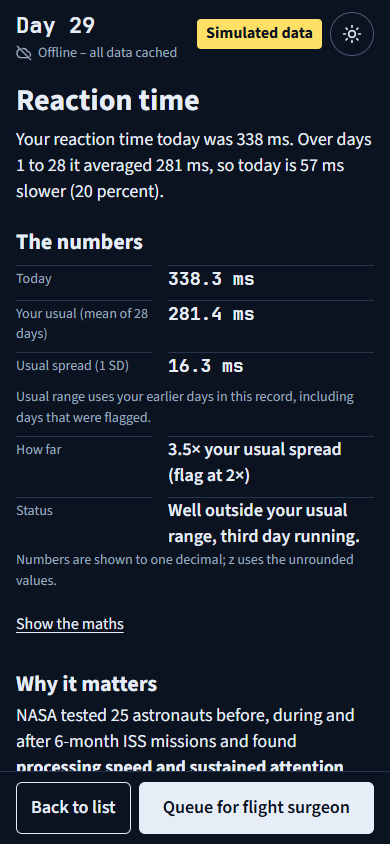
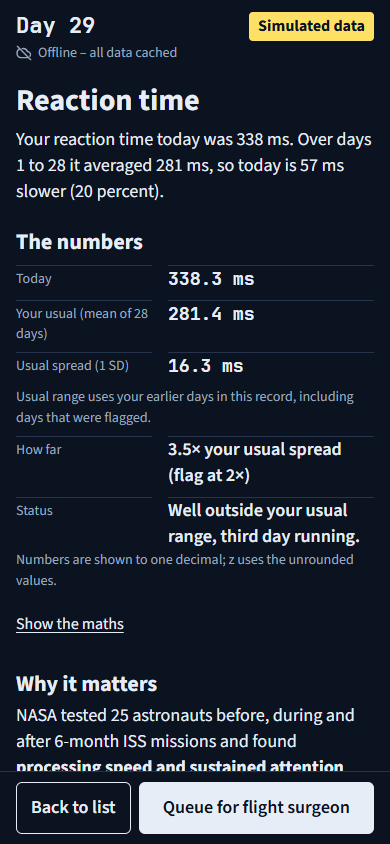
Dark only: theme switch and light palette removed; dark screenshots retaken, light deleted

Changed region(s): [[0.4923, 0.0, 0.9538, 0.0616]]

diff --git a/web/index.html b/web/index.html
@@ -8,9 +8,9 @@
 <link rel="icon" href="data:,">
 <link rel="preload" href="fonts/source-sans-3-latin-wght-normal.woff2?v=fe93b8f82d" as="font" type="font/woff2" crossorigin>
 <link rel="preload" href="fonts/jb-mono-regular.woff2?v=366a644383" as="font" type="font/woff2" crossorigin>
-<link rel="stylesheet" href="tokens.css?v=3c1d51d7bf">
+<link rel="stylesheet" href="tokens.css?v=482f5bfe40">
 <script src="errors.js?v=8cd9c76036"></script>
-<script src="theme.js?v=bb3d7a5525"></script>
+<script src="theme.js?v=01a88a6408"></script>
 <style>
 * { box-sizing: border-box; }
 html { -webkit-text-size-adjust: 100%; }
@@ -45,12 +45,6 @@ h1[tabindex]:focus { outline: none; }
 .top-right { display: flex; align-items: center; gap: 8px; }
 /* Big enough to read in a screen recording. */
 .sim { padding: 2px 8px; border: 1px solid var(--sim-border); border-radius: 4px; background: var(--sim); color: var(--sim-ink); font-size: 16px; font-weight: 700; }
-.theme-btn {
-  display: flex; align-items: center; justify-content: center; width: 44px; height: 44px; padding: 0;
-  border: 1.5px solid var(--strong); border-radius: 50%; background: none; color: var(--ink); cursor: pointer;
-}
-.theme-btn svg { width: 20px; height: 20px; }
-:root[data-theme="dark"] .i-moon, :root:not([data-theme="dark"]) .i-sun { display: none; } /* sun = go light */
 main { max-width: 480px; margin: 0 auto; padding: 0 16px 56px; }
 h1 { margin: 12px 0 8px; font-size: 30px; line-height: 1.2; font-weight: 700; }
 h2 { margin: 24px 0 4px; font-size: 22px; line-height: 1.25; font-weight: 700; }
@@ -309,10 +303,6 @@ fieldset { border: 0; padding: 0; margin: 28px 0 0; min-width: 0; }
   <span class="top-right">
     <span class="sim">Simulated data</span>
     <span id="b1-chip" class="chip" hidden></span>
-    <button id="theme-btn" class="theme-btn" type="button" aria-label="Switch theme">
-      <svg class="i-sun" viewBox="0 0 24 24" fill="none" stroke="currentColor" stroke-width="2" stroke-linecap="round" aria-hidden="true"><circle cx="12" cy="12" r="4"/><path d="M12 2v2M12 20v2M4.9 4.9l1.4 1.4M17.7 17.7l1.4 1.4M2 12h2M20 12h2M4.9 19.1l1.4-1.4M17.7 6.3l1.4-1.4"/></svg>
-      <svg class="i-moon" viewBox="0 0 24 24" fill="none" stroke="currentColor" stroke-width="2" stroke-linejoin="round" aria-hidden="true"><path d="M21 12.8A9 9 0 1 1 11.2 3a7 7 0 0 0 9.8 9.8z"/></svg>
-    </button>
   </span>
 </header>
 <main>
@@ -670,6 +660,6 @@ fieldset { border: 0; padding: 0; margin: 28px 0 0; min-width: 0; }
 <script src="spe.js?v=8dc481d0f5"></script>
 <script src="reaction.js?v=0c373ca889"></script>
 <script src="store.js?v=cb99d76b39"></script>
-<script src="app.js?v=33904779bc"></script>
+<script src="app.js?v=b91d9713e2"></script>
 </body>
 </html>

diff --git a/web/theme.js b/web/theme.js
@@ -1,19 +1,11 @@
 "use strict";
-// Light/Dark theme. A choice saved on this device wins; with none, the page is dark during the crew's
-// planned sleep window and light outside it. Loaded in <head> so the first paint is already in the right
-// theme. Storage can be blocked (private mode, settings): then the choice lasts until the page closes.
+// The page is dark only (Hrishin, 11 Nov 2026): web/tokens.css has one palette, so nothing here picks a theme,
+// reads the device clock for it or reads a saved choice. What is left is the simulated crew schedule for the
+// daily check prompt on the first screen.
 (function (root) {
-  // Simulated crew schedule, not a NASA figure: planned sleep window 22:00 to 06:00, device local time.
-  const SLEEP_START_HOUR = 22, SLEEP_END_HOUR = 6;
-  const KEY = "baseline-theme";
+  // Simulated crew schedule, not a NASA figure: planned sleep window ends 06:00, device local time.
+  const SLEEP_END_HOUR = 6;
 
-  const byClock = (date) => {
-    const h = date.getHours();
-    return h >= SLEEP_START_HOUR || h < SLEEP_END_HOUR ? "dark" : "light";
-  };
-  function saved() {
-    try { const t = localStorage.getItem(KEY); return t === "light" || t === "dark" ? t : null; } catch (e) { return null; }
-  }
   // The daily check prompt on the first screen, from the same schedule. saved: the checks on this device (Store.load()),
   // empty when storage is blocked. Local dates, because saved_at is in UTC. Worked out when the screen is drawn: no timer.
   function dailyLine(now, saved) {
@@ -21,16 +13,8 @@
     if (now.getHours() < SLEEP_END_HOUR) return `Next daily check: ${String(SLEEP_END_HOUR).padStart(2, "0")}:00 (after the planned sleep window).`;
     return "Today's daily check is due now.";
   }
-  const current = () => document.documentElement.getAttribute("data-theme");
-  function set(theme) {
-    document.documentElement.setAttribute("data-theme", theme);
-    try { localStorage.setItem(KEY, theme); } catch (e) { /* storage blocked: keep it for this visit only */ }
-  }
 
-  const api = { SLEEP_START_HOUR, SLEEP_END_HOUR, byClock, dailyLine, current, set };
+  const api = { SLEEP_END_HOUR, dailyLine };
   if (typeof module === "object" && module.exports) module.exports = api;
-  else {
-    root.Theme = api;
-    document.documentElement.setAttribute("data-theme", saved() || byClock(new Date()));
-  }
+  else root.Theme = api;
 })(this);

diff --git a/web/tokens.css b/web/tokens.css
@@ -1,6 +1,6 @@
-/* Design tokens: the two palettes and two fonts from the final canvas (docs/DESIGN_BRIEF.md "Global rules").
-   web/theme.js sets data-theme on <html>; plain :root is the light palette in case that script never runs.
-   Every variable index.html or app.js uses must be defined in both themes (tests/test_web.py checks). */
+/* Design tokens: the dark palette and two fonts from the final canvas (docs/DESIGN_BRIEF.md "Global rules").
+   Dark only (Hrishin, 11 Nov 2026): one palette on plain :root, no light palette, nothing switches it.
+   Every variable index.html or app.js uses must be defined here (tests/test_web.py checks). */
 @font-face {
   font-family: "Source Sans 3";
   src: url("fonts/source-sans-3-latin-wght-normal.woff2?v=fe93b8f82d") format("woff2");
@@ -20,34 +20,8 @@
   font-display: swap;
 }
 
-/* Light – day mode (the original app palette). */
-:root, :root[data-theme="light"] {
-  color-scheme: light;
-  --sans: "Source Sans 3", system-ui, sans-serif;
-  --mono: "JetBrains Mono", ui-monospace, monospace;
-  --scrub: #E6ECE8;        /* ground */
-  --ink: #16221E;          /* text, primary button */
-  --quiet: #52625B;
-  --rule: #AEBDB5;
-  --band: #C5D3CA;         /* usual-range band */
-  --flag: #D4470C;
-  --sim: #FFF1A8;          /* simulated-data badge */
-  --sim-ink: #16221E;
-  --sim-border: #16221E;
-  --error: #FCE1DE;        /* alert card */
-  --real: #FFFFFF;         /* real-data box */
-  --real-border: #52625B;
-  --real-head: #16221E;
-  --card: transparent;
-  --card-border: #AEBDB5;
-  --strong: #52625B;       /* control borders */
-  --glow: none;
-  --rt-go: transparent;    /* reaction field while the circle shows */
-  --rt-dot: #16221E;
-}
-
 /* Dark – mission console. */
-:root[data-theme="dark"] {
+:root {
   color-scheme: dark;
   --sans: "Source Sans 3", system-ui, sans-serif;
   --mono: "JetBrains Mono", ui-monospace, monospace;

diff --git a/web/app.js b/web/app.js
@@ -426,19 +426,6 @@ function trendChart(canvas, signal, full, { bottom, tick, learning, words = () =
   });
 }
 
-// Light/Dark switch in the header (web/theme.js picks the first theme). Charts read the colours when drawn.
-function themeLabel() {
-  $("theme-btn").setAttribute("aria-label", Theme.current() === "dark" ? "Switch to light theme" : "Switch to dark theme");
-}
-themeLabel();
-$("theme-btn").addEventListener("click", () => {
-  Theme.set(Theme.current() === "dark" ? "light" : "dark");
-  themeLabel();
-  if (Object.keys(state.charts).length) CHANNELS.forEach(drawChannel);
-  if ($("skylab").open) drawSkylab();
-  if (!$("maths").hidden) drawMaths(state.current);
-});
-
 // 7 days · 30 days switch (design P7b). Not saved on the device; "Start the demo again" sets it back to 30 days.
 function setRange(days) {
   state.range = days;

diff --git a/tests/test_web.py b/tests/test_web.py
@@ -91,29 +91,21 @@ def test_scripts_styles_and_fonts_carry_a_version_that_matches_their_content():
 TOKENS = Path("web/tokens.css")
 
 
-def theme_block(name: str) -> str:
+def palette() -> str:
+    """The one palette: dark only (Hrishin, 11 Nov 2026)."""
     css = TOKENS.read_text(encoding="utf-8")
-    return re.search(r':root\[data-theme="' + name + r'"\] \{(.*?)\}', css, re.S).group(1)
+    blocks = re.findall(r"^(:root[^{]*)\{(.*?)\}", css, re.S | re.M)
+    assert [sel.strip() for sel, _ in blocks] == [":root"], "one palette on plain :root, no data-theme blocks"
+    return blocks[0][1]
 
 
-def test_both_themes_define_every_variable_the_page_uses():
+def test_dark_palette_defines_every_variable_the_page_uses():
     used = set(re.findall(r"var\((--[a-z-]+)\)", Path("web/index.html").read_text(encoding="utf-8")))
     used |= set(re.findall(r'"(--[a-z-]+)"', Path("web/app.js").read_text(encoding="utf-8")))
     assert {"--ink", "--flag", "--mono", "--sans"} <= used
-    for name in ("light", "dark"):
-        defined = set(re.findall(r"(--[a-z-]+):", theme_block(name)))
-        assert used <= defined, f"{name} theme is missing {sorted(used - defined)}"
-    assert "#0B1220" in theme_block("dark") and "#E6ECE8" in theme_block("light")
-
-
-def test_theme_switch_is_in_the_header_and_big_enough_to_tap():
-    html = Path("web/index.html").read_text(encoding="utf-8")
-    header = html[html.index('<header class="top">'):html.index("</header>")]
-    assert '<button id="theme-btn" class="theme-btn" type="button"' in header
-    assert re.search(r"\.theme-btn \{[^}]*width: 44px; height: 44px;", html)
-    app = Path("web/app.js").read_text(encoding="utf-8")
-    for label in ("Switch to light theme", "Switch to dark theme"):
-        assert label in app and not any(b in label.lower() for b in BLOCKED)
+    defined = set(re.findall(r"(--[a-z-]+):", palette()))
+    assert used <= defined, f"dark palette is missing {sorted(used - defined)}"
+    assert "#0B1220" in palette() and "color-scheme: dark;" in palette()
 
 
 def test_offline_line_is_in_the_header_on_every_screen():
@@ -124,20 +116,38 @@ def test_offline_line_is_in_the_header_on_every_screen():
     assert f"</svg>{line}</span>" in header and not any(b in line.lower() for b in BLOCKED)
 
 
-THEME_JS = """
-const T = require('./web/theme.js');
-const at = (h, m) => T.byClock(new Date(2026, 9, 29, h, m));
-console.log(JSON.stringify([at(21, 59), at(22, 0), at(3, 0), at(5, 59), at(6, 0), at(12, 0)]));
+THEME_JS = r"""
+// The page's theme.js as a browser runs it (no module), with a saved "light" choice from an old visit in storage.
+const fs = require('fs');
+const calls = [];
+const storage = { getItem(k) { calls.push(['get', k]); return k === 'baseline-theme' ? 'light' : null; }, setItem(k, v) { calls.push(['set', k, v]); } };
+const document = { documentElement: { setAttribute(k, v) { calls.push(['attr', k, v]); }, getAttribute() { return null; } } };
+const root = {};
+new Function('module', 'localStorage', 'document', 'window', fs.readFileSync('./web/theme.js', 'utf8').replace(/\}\)\(this\);\s*$/, '})(window);'))(undefined, storage, document, root);
+console.log(JSON.stringify({ calls, api: Object.keys(root.Theme).sort() }));
 """
 
 
 @pytest.mark.skipif(NODE is None, reason="node is not installed")
-def test_default_theme_is_dark_in_the_simulated_sleep_window():
+def test_page_is_dark_with_a_saved_light_choice_and_has_no_switch():
+    """Dark only (Hrishin, 11 Nov 2026): a saved "light" value from an old visit is never read and never applied;
+    no clock default; no switch in the header or in app.js; the only palette is dark."""
     out = json.loads(subprocess.run([NODE, "-e", THEME_JS], capture_output=True, text=True, check=True).stdout)
-    assert out == ["light", "dark", "dark", "dark", "light", "light"]
+    assert out["calls"] == [], "theme.js reads no saved choice and sets no theme"
+    assert out["api"] == ["SLEEP_END_HOUR", "dailyLine"]
     theme = Path("web/theme.js").read_text(encoding="utf-8")
     assert "Simulated crew schedule, not a NASA figure" in theme
-    assert theme.count("try {") == 2, "localStorage read and write are both wrapped"
+    assert "localStorage" not in theme and "getHours() >=" not in theme
+    html = Path("web/index.html").read_text(encoding="utf-8")
+    header = html[html.index('<header class="top">'):html.index("</header>")]
+    assert "<button" not in header, "no theme switch in the header"
+    app = Path("web/app.js").read_text(encoding="utf-8")
+    for gone in ("theme-btn", "Switch to light theme", "Switch to dark theme", "Theme.set", "Theme.current"):
+        assert gone not in html and gone not in app, gone
+    css = TOKENS.read_text(encoding="utf-8")
+    assert "data-theme" not in css and "color-scheme: light" not in css and "#E6ECE8" not in css
+    assert "data-theme" not in html and "prefers-color-scheme" not in html + css
+    palette()
 
 
 DAILY_JS = """

diff --git a/README.md b/README.md
@@ -5,11 +5,11 @@
 **Baseline is a phone app that tells an astronaut whether today is normal *for them*.** It compares each day's readings with that person's own 30-day range. When something drifts, it shows the numbers, the NASA study behind the change, and one step to consider. It never diagnoses.
 
 <p align="center">
-  <img src="web/screenshots/2-console-390.png" width="260" alt="Console titled Health status: the last 29 days of heart rate, heart rate variability and blood oxygen, the first three of seven charts. The grey band is the usual range. Heart rate variability is flagged in orange on days 27 to 29.">
+  <img src="web/screenshots/2-console-390-dark.png" width="260" alt="Console titled Health status: the last 29 days of heart rate, heart rate variability and blood oxygen, the first three of seven charts. The grey band is the usual range. Heart rate variability is flagged in orange on days 27 to 29.">
   &nbsp;
-  <img src="web/screenshots/3-flags-390.png" width="260" alt="What changed today: reaction time and heart rate variability are outside the usual range, each with a three-day trend card under its flag.">
+  <img src="web/screenshots/3-flags-390-dark.png" width="260" alt="What changed today: reaction time and heart rate variability are outside the usual range, each with a three-day trend card under its flag.">
   &nbsp;
-  <img src="web/screenshots/4-evidence-390.png" width="260" alt="Evidence card for reaction time: the change in plain words, the numbers with a line on how the usual range is computed, the start of why it matters, and the Back to list and Queue for flight surgeon buttons.">
+  <img src="web/screenshots/4-evidence-390-dark.png" width="260" alt="Evidence card for reaction time: the change in plain words, the numbers with a line on how the usual range is computed, the start of why it matters, and the Back to list and Queue for flight surgeon buttons.">
 </p>
 
 > **Every vital sign on the console is simulated.** The demo page says "Simulated data" on every screen. The one real crew record is the Skylab 4 sleep estimates from a NASA report (`cache/skylab4`): crew log estimates, by role only, labelled as real on their own panel. The real feeds are NASA MSL RAD (Mars surface radiation, CDAWeb dataset MSL_RAD_OBS-L2) and NOAA GOES solar protons, shown together in their own box, "Real data: NASA MSL RAD and NOAA GOES".
@@ -69,7 +69,7 @@ pytest -q
 python -m baseline.serve
 ```
 
-`pytest -q` should print **203 passed** (with Node). The last line opens the demo in your browser at http://localhost:8000 (or 8001–8010 if busy). Ctrl+C stops it.
+`pytest -q` should print **202 passed** (with Node). The last line opens the demo in your browser at http://localhost:8000 (or 8001–8010 if busy). Ctrl+C stops it.
 
 **On a phone:** `python -m baseline.serve --lan`, then open the second address it prints on a phone on the same wifi. Windows may ask to let Python through the firewall; allow it for private networks.
 
@@ -83,7 +83,7 @@ python -m baseline.serve
 - The page loads files only from `web/` (fonts, Chart.js, rules, fixture, radiation summary). A Content-Security-Policy blocks every other host.
 - The server sends `Cache-Control: no-store`, so a reload always gets the latest files.
 - "Start the demo again" resets in memory without reloading, so a phone that has loaded the page once can run it again with no network.
-- The round button in the header switches between a light and a dark theme, and the device remembers the choice. With no saved choice the page is dark from 22:00 to 06:00 on the device clock and light otherwise. That window is a simulated crew schedule (`web/theme.js`), not a NASA figure. Screenshots ending in `-dark` show the dark theme.
+- The page has one theme, dark, on every screen; there is no theme switch. Screenshots end in `-dark`.
 - If `pip install` fails, check that `python --version` shows 3.11 or later.
 
 </details>
@@ -103,13 +103,13 @@ For a repeatable demo, use the **"Use recorded day-29 self-check"** button in st
 | 5 | **Queue for flight surgeon** | The summary, and "A reply can come up to 40 minutes later: up to 20 minutes each way at Mars distance." Display only. Nothing is sent. |
 | 6 | **Next day** | Day 30: each of yesterday's flags compared with today. "Start the demo again" returns to step 1. |
 
-**Flight surgeon view.** On a laptop, open `http://localhost:8000/#crew`, or use the "Flight surgeon view" link at the bottom of the day 29 console. Three crew on one screen, each checked against their own normal, with their flags, queued summaries and evidence cards. Static and simulated; nothing is sent. ([screenshot](web/screenshots/11-crew-1440.png))
+**Flight surgeon view.** On a laptop, open `http://localhost:8000/#crew`, or use the "Flight surgeon view" link at the bottom of the day 29 console. Three crew on one screen, each checked against their own normal, with their flags, queued summaries and evidence cards. Static and simulated; nothing is sent. ([screenshot](web/screenshots/11-crew-1440-dark.png))
 
 <p align="center">
-  <img src="web/screenshots/0-guide-390.png" width="200" alt="First-open guide card, with the simulated crew schedule line above it: today's daily check is due now">
-  <img src="web/screenshots/1-today-390.png" width="200" alt="Self-check screen">
-  <img src="web/screenshots/5-queue-390.png" width="200" alt="Needs flight surgeon attention: the summary in the queue">
-  <img src="web/screenshots/6-next-day-390.png" width="200" alt="Day 30 console: one reading is outside the usual range today; heart rate variability is back inside its usual range">
+  <img src="web/screenshots/0-guide-390-dark.png" width="200" alt="First-open guide card, with the simulated crew schedule line above it: today's daily check is due now">
+  <img src="web/screenshots/1-today-390-dark.png" width="200" alt="Self-check screen">
+  <img src="web/screenshots/5-queue-390-dark.png" width="200" alt="Needs flight surgeon attention: the summary in the queue">
+  <img src="web/screenshots/6-next-day-390-dark.png" width="200" alt="Day 30 console: one reading is outside the usual range today; heart rate variability is back inside its usual range">
 </p>
 
 Wifi stays off for the whole demo.
@@ -223,7 +223,7 @@ web/                    the page: index.html, app.js, rules.js, trend.js, projec
 data/fixtures/          simulated 30-day records (clean, anomaly, crew B and C)
 cache/                  NTRS, OSDR and NOAA responses with source URL and fetch time
 docs/                   evidence map, evidence notes, design notes
-tests/                  203 tests
+tests/                  202 tests
 ```
 
 ---

diff --git a/docs/DESIGN.md b/docs/DESIGN.md
@@ -4,17 +4,21 @@ Subject: one astronaut, tired, on a phone, months from Earth, doing the morning 
 
 ## Palette
 
+Dark only (Hrishin, 11 Nov 2026): one palette, the dark mission console from the final canvas, in `web/tokens.css`. The light palette (scrub `#E6ECE8`, band `#C5D3CA`, ink `#16221E`, flag `#D4470C`, sim `#FFF1A8`, paper `#FFFFFF`) and the theme switch were removed; the review notes below keep their old colours as history.
+
 | Name | Hex | Use |
 |---|---|---|
-| Scrub | `#E6ECE8` | Page ground. Surgical green-grey: operating rooms use it to cut glare and afterimage, which suits tired eyes. |
-| Band | `#C5D3CA` | The personal baseline band. A darker step of the ground, so "your usual" reads as ground, not as a figure. |
-| Ink | `#16221E` | Text, the trace, primary buttons, focus ring. Green-black from the same hue family. |
-| Quiet ink | `#52625B` | Secondary text and axis labels (5:1 on Scrub). |
-| Rule | `#AEBDB5` | Axis lines and the outline of the reaction test field. Nothing else. |
-| Flag | `#D4470C` | International orange, the aerospace colour for "look here". Used only where a rule fired. |
-| Simulated | `#FFF1A8` | Light yellow behind the "Simulated data" label, so it reads in a screen recording. Nothing else. |
-| Error | `#FCE1DE` | Light red behind the script-error line at the top of the page. Shown only when a script fails. |
-| Paper | `#FFFFFF` | Ground of the "Real data: NASA MSL RAD and NOAA GOES" box only, so real data never sits on the simulated ground. |
+| Ground | `#0B1220` | Page ground. |
+| Card | `#121B2E` | Cards, with a `#26334D` border. |
+| Band | `#9AA8BE` at low opacity | The personal baseline band, so "your usual" reads as ground, not as a figure. |
+| Ink | `#E6EDF7` | Text, the trace, primary buttons, focus ring. |
+| Quiet ink | `#9AA8BE` | Secondary text and axis labels. |
+| Rule | `#26334D` | Axis lines and the outline of the reaction test field. |
+| Strong border | `#4A5A75` | Control borders. |
+| Flag | `#FF8A3D` | Orange, "look here", with a soft orange glow on flagged items. Used only where a rule fired. |
+| Simulated | `#FFE066` | Yellow behind the "Simulated data" label, with ground-coloured text, so it reads in a screen recording. Nothing else. |
+| Error | `#1A1410` | Ground of the alert card and the script-error line. |
+| Real data | `#0E1A2C` | Ground of the "Real data: NASA MSL RAD and NOAA GOES" box only, with a cyan `#4FD1E8` border and heading, so real data never sits on the simulated ground. |
 
 ## Type
 
@@ -29,7 +33,7 @@ Scale (from the classical sequence): 12 axis ticks, 14 meta, 18 body, 24 screen 
 Single column, left aligned, 16 px gutters, designed at 390 px, max width 480 px centred on desktop. One screen at a time. A sticky top line carries the day and "Simulated data" on every screen. The framed objects are the first-open guide card, the reaction test field, because it is the part you touch, and the real-data box ("Real data: NASA MSL RAD and NOAA GOES"), because it holds the real readings on the page. On the evidence card, "Back to list" and "Queue for flight surgeon" sit in a bar fixed to the bottom of the screen, above the iPhone home indicator (`env(safe-area-inset-bottom)`). Headings stand on their own, with no rule or bar beside them. The page scrolls without a visible scrollbar track.
 
 ```
-Day 29                 Simulated data     <- 16 px bold ink on light yellow, sticky
+Day 29                 Simulated data     <- 16 px bold, dark text on yellow, sticky
 Health status                             <- title (Gate 1 label)
 Your last 29 days                         <- 20 px; "Your last 7 days" in the 7-day view
 ▬ Usual range (from day 15, ±2 SD)        <- 14 px quiet key, row 1 on phones
